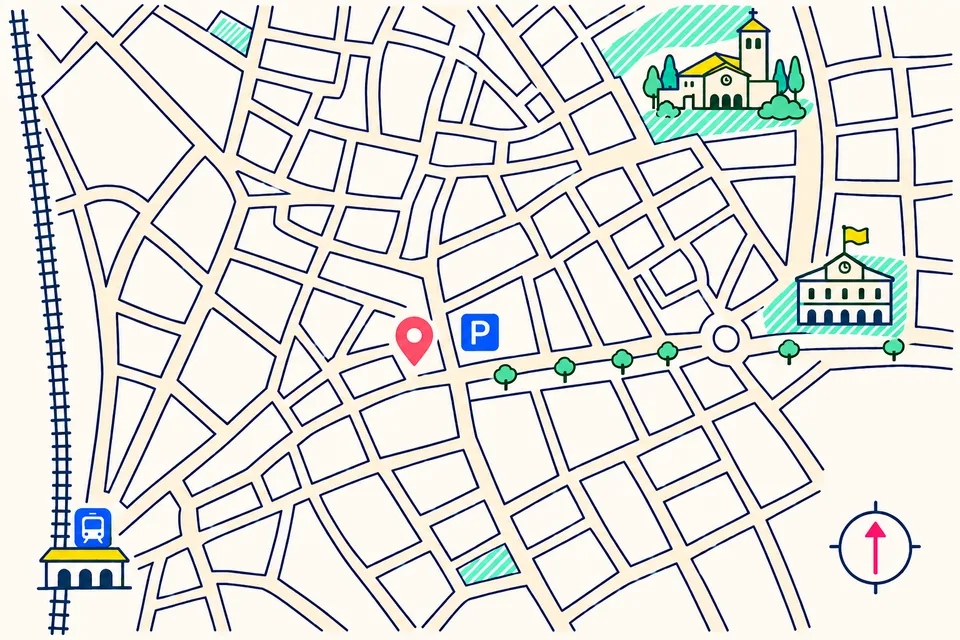
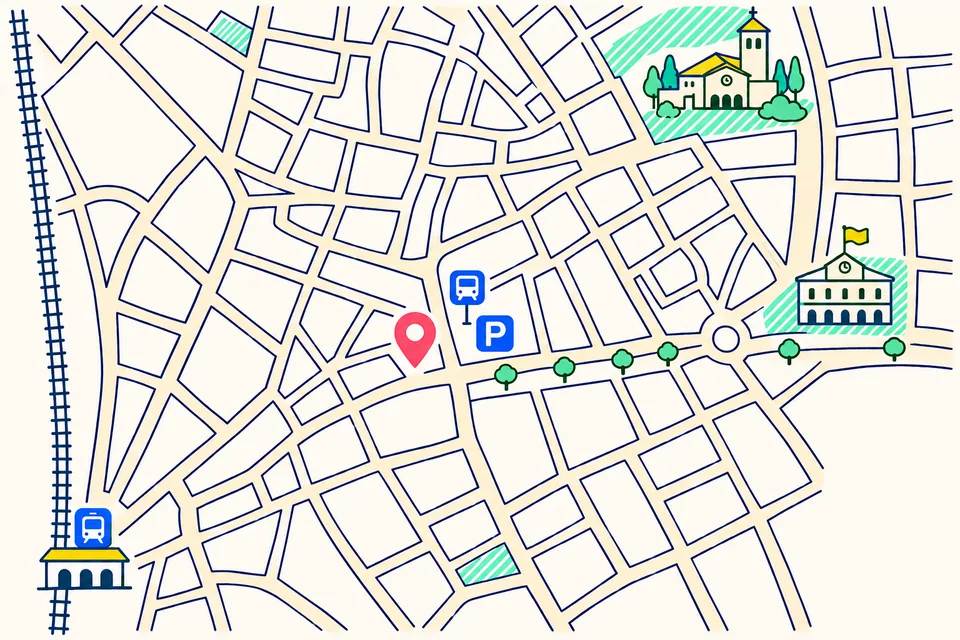
Com arribar: noms dels carrers dins dels carrers i plànol a tota l'amplada

diff --git a/index.html b/index.html
@@ -791,14 +791,16 @@ section{padding:96px 32px;max-width:1480px;margin:0 auto;position:relative}
 .arribar-map{margin:0;position:relative;border-radius:24px;overflow:hidden;border:1px solid var(--line);background:#FFFDF8;aspect-ratio:3/2;box-shadow:0 10px 30px rgba(21,32,61,.06)}
 .arribar-map .hand-map{display:block;position:relative;width:100%;container-type:inline-size}
 .arribar-map .hand-map img{display:block;width:100%;height:auto}
-.gl{position:absolute;font-family:'Caveat',cursive;font-weight:700;color:var(--ink);line-height:1;white-space:nowrap;font-size:2.5cqw;text-shadow:0 0 3px #FFFDF8,0 0 3px #FFFDF8,0 0 6px #FFFDF8}
-.gl small{display:block;font-size:.7em;color:#4A5878;margin-top:.15em}
-.gl.big{font-size:2.9cqw}
-.gl.st{font-size:2.2cqw;color:#4A5878}
-.gl.pill{background:#FFFDF8;border-radius:99px;padding:.15em .55em .2em;text-shadow:none;box-shadow:0 0 0 1px rgba(21,32,61,.14)}
-.gl-badge{position:absolute;background:var(--ink);color:#fff;border-radius:.5em;padding:.4em .7em .45em;transform:rotate(-3deg);font-family:'Caveat',cursive;font-weight:700;line-height:1;font-size:2.5cqw;white-space:nowrap;box-shadow:0 6px 16px rgba(21,32,61,.18)}
-.gl-badge b{display:block;color:var(--yellow);font-size:1.15em}
-.gl-badge small{display:block;font-size:.75em;margin-top:.2em}
+/* Noms del plànol: font de la web, en etiquetes blanques perquè es llegeixin sobre el dibuix */
+.gl{position:absolute;font-family:var(--font-body);font-weight:800;color:var(--ink);line-height:1.1;white-space:nowrap;font-size:clamp(12px,1.55cqw,19px);
+  background:#fff;border:1.5px solid rgba(21,32,61,.18);border-radius:.6em;padding:.32em .6em .36em;box-shadow:0 3px 10px rgba(21,32,61,.10)}
+.gl small{display:block;font-size:.78em;font-weight:600;color:#4A5878;margin-top:.12em}
+/* Noms de carrer escrits dins del carrer, seguint-ne el traçat */
+.hm-streets{position:absolute;inset:0;width:100%;height:100%;pointer-events:none;overflow:visible}
+.gst{font-family:var(--font-body);font-weight:800;font-size:19px;letter-spacing:.02em;fill:#15203D;stroke:#FEF1D2;stroke-width:6px;stroke-linejoin:round;paint-order:stroke}
+.gl-badge{position:absolute;background:var(--ink);color:#fff;border-radius:.6em;padding:.45em .75em .5em;font-family:var(--font-body);font-weight:700;line-height:1.15;font-size:clamp(12px,1.55cqw,19px);white-space:nowrap;box-shadow:0 6px 16px rgba(21,32,61,.2)}
+.gl-badge b{display:block;color:var(--yellow);font-family:var(--font-display);font-weight:700;font-size:1.2em;letter-spacing:-.01em}
+.gl-badge small{display:block;font-size:.85em;margin-top:.15em}
 .arribar-map iframe{display:block;width:100%;height:100%;border:0}
 .arribar-txt h3{font-family:var(--font-display);font-weight:500;font-size:34px;line-height:1.05;letter-spacing:-0.025em;margin:10px 0 22px}
 .arribar-txt h3 .blue{color:var(--blue)}
@@ -880,6 +882,20 @@ section{padding:96px 32px;max-width:1480px;margin:0 auto;position:relative}
   #contacte{padding-top:64px;padding-bottom:64px}
   #contacte .section-head{margin-bottom:28px}
   .audience{margin-top:28px}
+}
+/* Com arribar: indicacions a dalt i plànol a tota l'amplada, perquè els carrers es llegeixin */
+.arribar{grid-template-columns:1fr;gap:32px;align-items:start}
+.arribar-txt{order:-1;padding:0}
+.arribar-txt h3{margin-bottom:26px}
+.arribar-list{grid-template-columns:repeat(4,1fr);gap:24px;margin-bottom:24px}
+@media (max-width:960px){.arribar-list{grid-template-columns:1fr 1fr}}
+@media (max-width:600px){
+  .arribar-list{grid-template-columns:1fr}
+  .arribar-map .hand-map{width:780px}
+  .gst{font-size:27px;stroke-width:7px}
+  .gst-cel{baseline-shift:-10px}
+  .gst-fm{font-size:21px;stroke-width:6px}
+  .arribar-hint{margin:-14px 0 0}
 }
 </style>
 
@@ -1290,19 +1306,19 @@ section{padding:96px 32px;max-width:1480px;margin:0 auto;position:relative}
   <div class="arribar" id="com-arribar">
     <figure class="arribar-map" data-src="https://www.google.com/maps?q=Sprint+Idiomes,+Carrer+de+Francesc+Moragas+8,+08172+Sant+Cugat+del+Vall%C3%A8s&amp;z=16&amp;output=embed">
       <div class="hand-map">
-        <img src="img-portada/mapa-com-arribar-960.webp" srcset="img-portada/mapa-com-arribar-960.webp 960w, img-portada/mapa-com-arribar.webp 1536w" sizes="(max-width:600px) 600px, 50vw" width="1536" height="1024" loading="lazy" alt="Plànol il·lustrat del centre de Sant Cugat: l'estació de FGC Sant Cugat Centre a baix a l'esquerra, Sprint Idiomes al carrer de Francesc Moragas, 8, al costat de la Plaça dels Quatre Cantons i el Parking Quatre Cantons, el Monestir a dalt i l'Ajuntament a la dreta, al final de la Rambla del Celler.">
-        <span class="gl big" style="left:14%;top:85%">Estació FGC<small>Sant Cugat Centre · S1 i S2</small></span>
-        <span class="gl-badge" style="right:58.5%;top:44%"><b>Sprint Idiomes</b><small>C/ Francesc Moragas, 8</small></span>
-        <span class="gl pill" style="left:53%;top:43%">Parking Quatre Cantons</span>
-        <span class="gl pill st" style="left:63%;top:60.5%;transform:rotate(-4deg)">Rambla del Celler</span>
-        <span class="gl big" style="left:72%;top:21.5%">Monestir</span>
-        <span class="gl big" style="right:17.5%;top:36%;text-align:right">Ajuntament<small>Plaça de la Vila</small></span>
+        <img src="img-portada/mapa-com-arribar-960.webp" srcset="img-portada/mapa-com-arribar-960.webp 960w, img-portada/mapa-com-arribar.webp 1536w" sizes="(max-width:600px) 600px, 50vw" width="1536" height="1024" loading="lazy" alt="Plànol il·lustrat del centre de Sant Cugat: l'estació de FGC Sant Cugat Centre a baix a l'esquerra, Sprint Idiomes al carrer de Francesc Moragas, 8, al costat de la Plaça dels Quatre Cantons, amb el Parking Quatre Cantons i la parada de bus, el Monestir a dalt i l'Ajuntament a la dreta, al final de la Rambla del Celler.">
+        <svg class="hm-streets" viewBox="0 0 1536 1024" aria-hidden="true" focusable="false"><defs><path id="hm-sm" d="M348.5,787.1 Q354.5,784.4 357.5,783.0 Q360.4,781.6 366.4,778.8 Q372.4,776.0 378.5,773.7 Q384.7,771.3 390.4,767.9 Q396.1,764.6 401.7,761.0 Q407.3,757.4 412.7,753.5 Q418.1,749.7 423.3,745.5 Q428.6,741.4 433.8,737.2 Q439.0,733.0 444.2,728.9 Q449.4,724.9 453.7,719.4 Q458.1,714.0 463.2,709.8 Q468.3,705.6 473.5,701.5 Q478.6,697.3 483.6,693.0 Q488.5,688.6 493.6,684.9 Q498.8,681.1 505.0,679.0 Q511.1,676.9 516.6,674.0 Q522.1,671.0 527.0,667.1 Q532.0,663.2 537.4,660.3 Q542.8,657.3 548.4,654.8 Q554.0,652.2 559.7,649.7 Q565.3,647.1 570.9,644.5 Q576.5,642.0 582.7,640.5 Q588.9,639.0 594.8,636.7 Q600.8,634.4 606.7,632.0 Q612.7,629.6 618.7,627.3 Q624.8,624.9 631.0,622.5 Q637.1,620.1 643.4,618.2 Q649.7,616.2 656.1,614.5 Q662.5,612.8 668.9,611.1 Q675.3,609.5 678.5,608.7 Q681.7,607.8 685.0,607.3 L688.3,606.8"/><path id="hm-fm" d="M696.7,400.6 Q693.6,408.0 693.0,411.6 Q692.3,415.2 691.9,422.3 Q691.5,429.4 690.1,436.6 Q688.7,443.8 689.8,450.7 Q690.9,457.7 693.2,465.9 Q695.4,474.2 697.7,482.4 Q700.1,490.6 702.2,498.9 Q704.2,507.2 706.5,515.5 Q708.7,523.7 710.9,532.0 Q713.0,540.3 714.8,547.2 Q716.5,554.1 717.6,561.1 Q718.8,568.1 720.0,575.0 Q721.1,582.0 723.0,588.8 Q724.9,595.7 726.8,602.5 Q728.6,609.4 730.2,616.2 Q731.9,623.1 733.8,630.0 Q735.8,636.8 737.3,640.2 Q738.8,643.5 739.4,647.0 L740.0,650.5"/><path id="hm-rus" d="M811.9,354.8 Q821.1,356.9 823.7,354.9 Q826.3,352.8 832.1,349.5 Q837.9,346.2 843.5,342.7 Q849.1,339.3 854.7,335.7 Q860.3,332.2 864.4,326.4 Q868.5,320.5 876.3,315.5 Q884.1,310.4 892.0,305.6 Q899.8,300.8 907.7,296.1 Q915.6,291.5 923.3,286.9 Q931.1,282.3 938.9,278.0 Q946.7,273.7 952.1,270.8 Q957.5,267.9 964.5,265.4 Q971.5,262.9 978.2,260.1 Q985.0,257.2 991.9,254.5 Q998.7,251.8 1002.5,250.5 Q1006.4,249.2 1011.0,248.0 L1015.6,246.8"/><path id="hm-cel" d="M793.0,632.6 Q800.2,630.9 803.9,630.5 Q807.6,630.1 816.0,628.6 Q824.4,627.2 832.2,625.7 Q840.0,624.2 847.0,622.9 Q854.0,621.6 860.9,620.9 Q867.8,620.1 875.6,618.4 Q883.5,616.7 890.2,615.8 Q896.8,614.9 903.4,614.0 Q909.9,613.1 918.0,612.8 Q926.2,612.5 933.7,611.1 Q941.3,609.7 947.8,609.5 Q954.3,609.3 961.6,607.8 Q968.9,606.3 976.3,605.2 Q983.6,604.2 993.9,602.1 Q1004.3,600.1 1014.1,599.0 Q1023.9,597.9 1035.2,598.3 Q1046.6,598.8 1055.4,598.5 Q1064.2,598.3 1073.2,597.8 L1082.2,597.3"/></defs><text class="gst"><textPath href="#hm-sm" startOffset="50%" text-anchor="middle">C. de Santa Maria</textPath></text><text class="gst gst-fm"><textPath href="#hm-fm" startOffset="50%" text-anchor="middle">C. de Francesc Moragas</textPath></text><text class="gst"><textPath href="#hm-rus" startOffset="50%" text-anchor="middle">C. de Santiago Rusiñol</textPath></text><text class="gst gst-cel"><textPath href="#hm-cel" startOffset="50%" text-anchor="middle">Rambla del Celler</textPath></text></svg>
+        <span class="gl" style="left:14%;top:84%">Estació FGC<small>Sant Cugat Centre · S1 i S2</small></span>
+        <span class="gl-badge" style="right:58.5%;top:43%"><b>Sprint Idiomes</b><small>C/ Francesc Moragas, 8</small></span>
+        <span class="gl" style="left:54.5%;top:47.5%">Parking i parada de bus<small>Pl. dels Quatre Cantons</small></span>
+        <span class="gl" style="left:70%;top:21.5%">Monestir</span>
+        <span class="gl" style="left:81.5%;top:57%">Ajuntament<small>Plaça de la Vila</small></span>
       </div>
     </figure>
     <p class="arribar-hint" aria-hidden="true">← Llisca per veure tot el plànol</p>
     <div class="arribar-txt">
       <span class="eyebrow">Com arribar</span>
-      <h3>A peu, <span class="blue">en un moment</span></h3>
+      <h3>A 8 minuts <span class="blue">de l'estació</span></h3>
       <ol class="arribar-list">
         <li><span class="ar-dot ar-train" aria-hidden="true"></span><div><strong>En tren</strong>FGC Sant Cugat Centre (S1 i S2). Uns 8 minuts a peu, pel carrer de Santa Maria.</div></li>
         <li><span class="ar-dot ar-bus" aria-hidden="true"><svg width="18" height="18" viewBox="0 0 24 24" fill="none" stroke="currentColor" stroke-width="1.9" stroke-linecap="round" stroke-linejoin="round"><rect x="2" y="2" width="20" height="13" rx="2"/><line x1="2" y1="9" x2="22" y2="9"/><line x1="8" y1="2" x2="8" y2="9"/><line x1="16" y1="2" x2="16" y2="9"/><circle cx="6" cy="19" r="2"/><circle cx="18" cy="19" r="2"/><line x1="8" y1="19" x2="16" y2="19"/></svg></span><div><strong>En autobús</strong>Parada Pl. dels Quatre Cantons, al carrer de Francesc Moragas, al costat de l'escola.</div></li>
